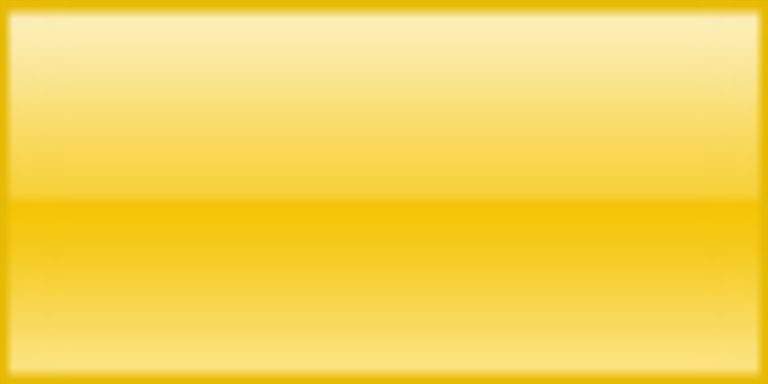
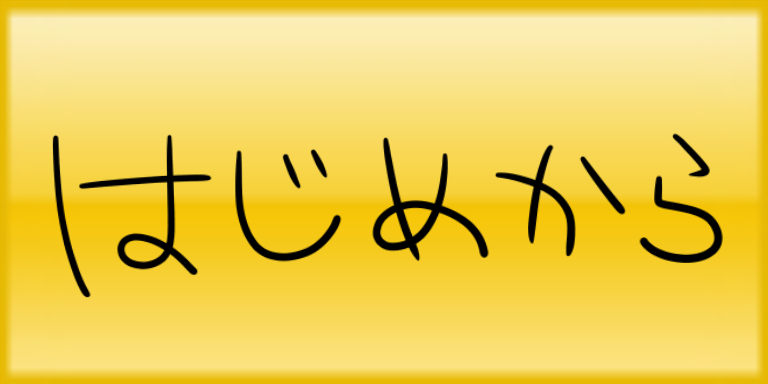
change top image

diff --git a/js/main.js b/js/main.js
@@ -32,7 +32,8 @@ enchant();
     button2.image = game.assets[TITLE_IMG_BUTTON];
     button2.moveTo(1164, 1088);
     button2.ontouchstart = function() {
-      game.replaceScene(GameScene());
+        game.replaceScene(SelectScene());
+//      game.replaceScene(GameScene());
     };
     scene.addChild(button2);
 
